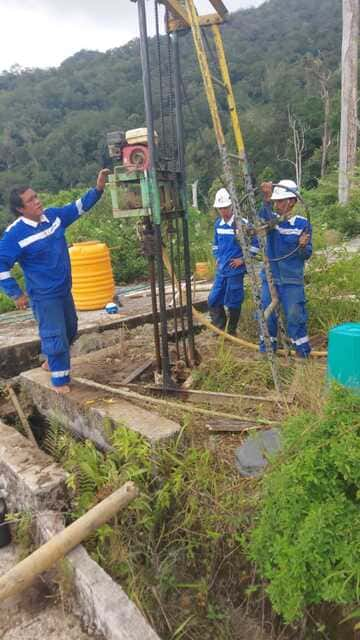
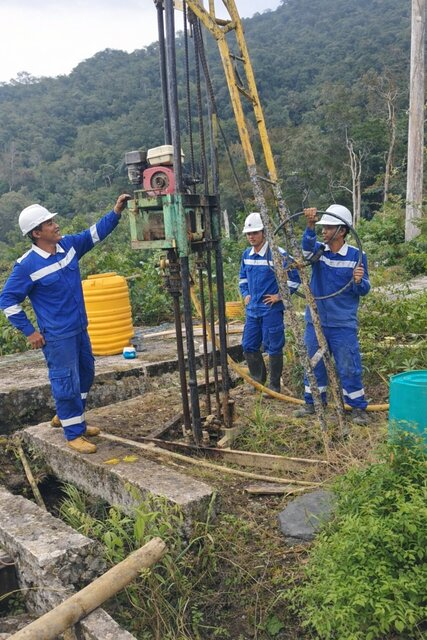
Update Specification page

diff --git a/src/components/information/Specification.jsx b/src/components/information/Specification.jsx
@@ -1,7 +1,243 @@
 
 export default function Specification() {
   return (
-    <>
-    </>
+    <div class="w-full flex flex-row flex-wrap">
+
+      <div class="w-full xs:px-1 py-1">
+        <div class="w-full max-w-[48rem] xs:rounded-sm border border-slate-200 dark:border-slate-700">
+          <div class="flex flex-row items-center bg-gray-100 dark:bg-gray-800">
+            <div class="mx-3 my-1.5 flex flex-row items-center font-semibold">
+              <span class="icon-list_square text-[1.5rem] align-middle"></span>
+              <span class="ml-1.5 align-middle">Sensor Inklinometer&nbsp;</span>
+            </div>
+          </div>
+          <div class="w-full xs:px-4 pt-2 pb-3 bg-white dark:bg-gray-900 text-sm">
+            <table class="w-full">
+              <thead class="text-xs sm:text-sm break-words">
+                <tr class="border-b border-gray-200 dark:border-gray-700">
+                  <th class="w-[34%] px-2 py-1.5 font-semibold">
+                    <div class="flex flex-row items-center justify-left">&nbsp;</div>
+                  </th>
+                  <th class="w-[66%] px-2 py-1.5 font-semibold">
+                    <div class="flex flex-row items-center justify-left">
+                      <span>Spesifikasi</span>
+                    </div>
+                  </th>
+                </tr>
+              </thead>
+              <tbody class="text-xs sm:text-sm">
+                <tr class="even:bg-gray-50 border-b border-gray-100 dark:border-gray-700 dark:even:bg-gray-800">
+                  <td class="flex items-center px-2 py-1 text-left">
+                    <div class="icon-list_circle mr-1 text-[0.75rem] align-middle h-full"></div>
+                    <div>Model</div>
+                  </td>
+                  <td class="px-2 py-1 text-left">Murata SCL3300-D01</td>
+                </tr>
+                <tr class="even:bg-gray-50 border-b border-gray-100 dark:border-gray-700 dark:even:bg-gray-800">
+                  <td class="flex items-center px-2 py-1 text-left">
+                    <div class="icon-list_circle mr-1 text-[0.75rem] align-middle h-full"></div>
+                    <div>Rentang ukur</div>
+                  </td>
+                  <td class="px-2 py-1 text-left">± 10° 3-axis</td>
+                </tr>
+                <tr class="even:bg-gray-50 border-b border-gray-100 dark:border-gray-700 dark:even:bg-gray-800">
+                  <td class="flex items-center px-2 py-1 text-left">
+                    <div class="icon-list_circle mr-1 text-[0.75rem] align-middle h-full"></div>
+                    <div>Resolusi</div>
+                  </td>
+                  <td class="px-2 py-1 text-left">0.0055°</td>
+                </tr>
+                <tr class="even:bg-gray-50 border-b border-gray-100 dark:border-gray-700 dark:even:bg-gray-800">
+                  <td class="flex items-center px-2 py-1 text-left">
+                    <div class="icon-list_circle mr-1 text-[0.75rem] align-middle h-full"></div>
+                    <div>Temperatur kerja</div>
+                  </td>
+                  <td class="px-2 py-1 text-left">-40 °C ‒ 125 °C</td>
+                </tr>
+                <tr class="even:bg-gray-50 border-b border-gray-100 dark:border-gray-700 dark:even:bg-gray-800">
+                  <td class="flex items-center px-2 py-1 text-left">
+                    <div class="icon-list_circle mr-1 text-[0.75rem] align-middle h-full"></div>
+                    <div><i>Offset lifetime drift</i></div>
+                  </td>
+                  <td class="px-2 py-1 text-left">-0.46° ‒ 0.46°</td>
+                </tr>
+                <tr class="even:bg-gray-50 border-b border-gray-100 dark:border-gray-700 dark:even:bg-gray-800">
+                  <td class="flex items-center px-2 py-1 text-left">
+                    <div class="icon-list_circle mr-1 text-[0.75rem] align-middle h-full"></div>
+                    <div>Sistem komunikasi</div >
+                  </td>
+                  <td class="px-2 py-1 text-left">RS-485</td>
+                </tr>
+              </tbody>
+            </table>
+          </div>
+        </div>
+      </div>
+
+      <div class="w-full xs:px-1 py-1">
+        <div class="w-full max-w-[48rem] xs:rounded-sm border border-slate-200 dark:border-slate-700">
+          <div class="flex flex-row items-center bg-gray-100 dark:bg-gray-800">
+            <div class="mx-3 my-1.5 flex flex-row items-center font-semibold">
+              <span class="icon-list_square text-[1.5rem] align-middle"></span>
+              <span class="ml-1.5 align-middle">Sensor Piezometer&nbsp;</span>
+            </div>
+          </div>
+          <div class="w-full xs:px-4 pt-2 pb-3 bg-white dark:bg-gray-900 text-sm">
+            <table class="w-full">
+              <thead class="text-xs sm:text-sm break-words">
+                <tr class="border-b border-gray-200 dark:border-gray-700">
+                  <th class="w-[34%] px-2 py-1.5 font-semibold">
+                    <div class="flex flex-row items-center justify-left">&nbsp;</div>
+                  </th>
+                  <th class="w-[66%] px-2 py-1.5 font-semibold">
+                    <div class="flex flex-row items-center justify-left">
+                      <span>Spesifikasi</span>
+                    </div>
+                  </th>
+                </tr>
+              </thead>
+              <tbody class="text-xs sm:text-sm">
+                <tr class="even:bg-gray-50 border-b border-gray-100 dark:border-gray-700 dark:even:bg-gray-800">
+                  <td class="flex items-center px-2 py-1 text-left">
+                    <div class="icon-list_circle mr-1 text-[0.75rem] align-middle h-full"></div>
+                    <div>Model</div>
+                  </td>
+                  <td class="px-2 py-1 text-left">Holykell HPT604</td>
+                </tr>
+                <tr class="even:bg-gray-50 border-b border-gray-100 dark:border-gray-700 dark:even:bg-gray-800">
+                  <td class="flex items-center px-2 py-1 text-left">
+                    <div class="icon-list_circle mr-1 text-[0.75rem] align-middle h-full"></div>
+                    <div>Rentang ukur</div>
+                  </td>
+                  <td class="px-2 py-1 text-left">0.1 ‒ 50 Bar</td>
+                </tr>
+                <tr class="even:bg-gray-50 border-b border-gray-100 dark:border-gray-700 dark:even:bg-gray-800">
+                  <td class="flex items-center px-2 py-1 text-left">
+                    <div class="icon-list_circle mr-1 text-[0.75rem] align-middle h-full"></div>
+                    <div>Akurasi</div>
+                  </td>
+                  <td class="px-2 py-1 text-left">≤± 0.5% F.S.</td>
+                </tr>
+                <tr class="even:bg-gray-50 border-b border-gray-100 dark:border-gray-700 dark:even:bg-gray-800">
+                  <td class="flex items-center px-2 py-1 text-left">
+                    <div class="icon-list_circle mr-1 text-[0.75rem] align-middle h-full"></div>
+                    <div>Temperatur kerja</div>
+                  </td>
+                  <td class="px-2 py-1 text-left">-30 °C ‒ 70 °C</td>
+                </tr>
+                <tr class="even:bg-gray-50 border-b border-gray-100 dark:border-gray-700 dark:even:bg-gray-800">
+                  <td class="flex items-center px-2 py-1 text-left">
+                    <div class="icon-list_circle mr-1 text-[0.75rem] align-middle h-full"></div>
+                    <div>Sistem komunikasi</div >
+                  </td>
+                  <td class="px-2 py-1 text-left">RS-485</td>
+                </tr>
+              </tbody>
+            </table>
+          </div>
+        </div>
+      </div>
+
+      <div class="w-full xs:px-1 py-1">
+        <div class="w-full max-w-[48rem] xs:rounded-sm border border-slate-200 dark:border-slate-700">
+          <div class="flex flex-row items-center bg-gray-100 dark:bg-gray-800">
+            <div class="mx-3 my-1.5 flex flex-row items-center font-semibold">
+              <span class="icon-list_square text-[1.5rem] align-middle"></span>
+              <span class="ml-1.5 align-middle">Sensor Curah Hujan&nbsp;</span>
+            </div>
+          </div>
+          <div class="w-full xs:px-4 pt-2 pb-3 bg-white dark:bg-gray-900 text-sm">
+            <table class="w-full">
+              <thead class="text-xs sm:text-sm break-words">
+                <tr class="border-b border-gray-200 dark:border-gray-700">
+                  <th class="w-[34%] px-2 py-1.5 font-semibold">
+                    <div class="flex flex-row items-center justify-left">&nbsp;</div>
+                  </th>
+                  <th class="w-[66%] px-2 py-1.5 font-semibold">
+                    <div class="flex flex-row items-center justify-left">
+                      <span>Spesifikasi</span>
+                    </div>
+                  </th>
+                </tr>
+              </thead>
+              <tbody class="text-xs sm:text-sm">
+                <tr class="even:bg-gray-50 border-b border-gray-100 dark:border-gray-700 dark:even:bg-gray-800">
+                  <td class="flex items-center px-2 py-1 text-left">
+                    <div class="icon-list_circle mr-1 text-[0.75rem] align-middle h-full"></div>
+                    <div>Model</div>
+                  </td>
+                  <td class="px-2 py-1 text-left">Hondetech 200 mm</td>
+                </tr>
+                <tr class="even:bg-gray-50 border-b border-gray-100 dark:border-gray-700 dark:even:bg-gray-800">
+                  <td class="flex items-center px-2 py-1 text-left">
+                    <div class="icon-list_circle mr-1 text-[0.75rem] align-middle h-full"></div>
+                    <div>Resolusi</div>
+                  </td>
+                  <td class="px-2 py-1 text-left">0.2 mm</td>
+                </tr>
+                <tr class="even:bg-gray-50 border-b border-gray-100 dark:border-gray-700 dark:even:bg-gray-800">
+                  <td class="flex items-center px-2 py-1 text-left">
+                    <div class="icon-list_circle mr-1 text-[0.75rem] align-middle h-full"></div>
+                    <div>Sistem komunikasi</div >
+                  </td>
+                  <td class="px-2 py-1 text-left">RS-485</td>
+                </tr>
+              </tbody>
+            </table>
+          </div>
+        </div>
+      </div>
+
+      <div class="w-full xs:px-1 py-1">
+        <div class="w-full max-w-[48rem] xs:rounded-sm border border-slate-200 dark:border-slate-700">
+          <div class="flex flex-row items-center bg-gray-100 dark:bg-gray-800">
+            <div class="mx-3 my-1.5 flex flex-row items-center font-semibold">
+              <span class="icon-list_square text-[1.5rem] align-middle"></span>
+              <span class="ml-1.5 align-middle">Sensor Temperatur dan Kelembaban Udara&nbsp;</span>
+            </div>
+          </div>
+          <div class="w-full xs:px-4 pt-2 pb-3 bg-white dark:bg-gray-900 text-sm">
+            <table class="w-full">
+              <thead class="text-xs sm:text-sm break-words">
+                <tr class="border-b border-gray-200 dark:border-gray-700">
+                  <th class="w-[34%] px-2 py-1.5 font-semibold">
+                    <div class="flex flex-row items-center justify-left">&nbsp;</div>
+                  </th>
+                  <th class="w-[66%] px-2 py-1.5 font-semibold">
+                    <div class="flex flex-row items-center justify-left">
+                      <span>Spesifikasi</span>
+                    </div>
+                  </th>
+                </tr>
+              </thead>
+              <tbody class="text-xs sm:text-sm">
+                <tr class="even:bg-gray-50 border-b border-gray-100 dark:border-gray-700 dark:even:bg-gray-800">
+                  <td class="flex items-center px-2 py-1 text-left">
+                    <div class="icon-list_circle mr-1 text-[0.75rem] align-middle h-full"></div>
+                    <div>Model</div>
+                  </td>
+                  <td class="px-2 py-1 text-left">Bosch BME280</td>
+                </tr>
+                <tr class="even:bg-gray-50 border-b border-gray-100 dark:border-gray-700 dark:even:bg-gray-800">
+                  <td class="flex items-center px-2 py-1 text-left">
+                    <div class="icon-list_circle mr-1 text-[0.75rem] align-middle h-full"></div>
+                    <div>Rentang Ukur</div >
+                  </td>
+                  <td class="px-2 py-1 text-left">-40‒85°C dan 1‒100%</td>
+                </tr>
+                <tr class="even:bg-gray-50 border-b border-gray-100 dark:border-gray-700 dark:even:bg-gray-800">
+                  <td class="flex items-center px-2 py-1 text-left">
+                    <div class="icon-list_circle mr-1 text-[0.75rem] align-middle h-full"></div>
+                    <div>Resolusi</div>
+                  </td>
+                  <td class="px-2 py-1 text-left">0.01°C dan 0.008%</td>
+                </tr>
+              </tbody>
+            </table>
+          </div>
+        </div>
+      </div>
+
+    </div>
   );
 }

diff --git a/src/components/information/Description.jsx b/src/components/information/Description.jsx
@@ -11,15 +11,15 @@ export default function Description() {
               </div>
             </div>
             <div class="flex flex-row justify-center py-3 px-6 bg-white dark:bg-gray-900">
-              <article class="prose text-gray-900 py-4 max-w-[80ch]">              
-                <h3>Objek Pemantauan</h3>
+              <article class="prose text-gray-900 py-4 max-w-[80ch] dark:text-gray-200">               
+                <h3 class="text-sky-900 dark:text-sky-200">Objek Pemantauan</h3>
                 <p class="text-base/6 my-2">
                   Sistem pemantauan longsor adalah sistem untuk memantau pergerakan tanah di suatu area dan memberi peringatan sebelum terjadinya longsor. Salah satu metode untuk mengukur pergerakan tanah adalah dengan mengukur kemiringan beberapa titik di bawah tanah. Data kemiringan lalu diolah menjadi pergerakan tanah. Kumpulan data pergerakan tanah ini dipantau secara berkala untuk dibandingkan dengan kriteria ambang batas longsor. Peringatan akan diberikan saat pergerakan tanah melebihi kriteria ambang batas longsor.
                 </p>
                 <p class="text-base/6 my-2">
                   Sumur uap panas bumi banyak terletak pada daerah rawan longsor. Salah satunya di sumur uap milik PT Pertamina Geothermal Energy (PGE) di Hululais, kabupaten Lebong, Bengkulu. Sistem pemantauan ditempat ini ditujukan sebagai bagian dari tindak pengamanan asset-aset di lokasi sekitar sumur uap dari resiko longsor.
                 </p>
-                <h3>Aplikasi</h3>
+                <h3 class="text-sky-900 dark:text-sky-200">Aplikasi</h3>
                 <p class="text-base/6 my-2">
                   Pemantauan longsor di sumur uap PGE Hululais dilakukan dengan cara mengebor tanah lalu memasang susunan sensor inklinometer digital. Sensor tersebut akan mengukur kemiringan secara terus menerus. Selain sensor inklinometer, dipasang juga sensor-sensor kondisi lingkungan antara lain sensor curah hujan, sensor piezometer untuk mengukur permukaan air tanah, serta sensor temperatur dan kelembaban udara.
                 </p>

diff --git a/src/components/overview/OverviewInclinometer.jsx b/src/components/overview/OverviewInclinometer.jsx
@@ -19,9 +19,9 @@ export default function OverviewInclinometer(props) {
   const initTimeMode = searchParams.time ? searchParams.time : config("time_mode") ? config("time_mode") : "live";
   const initFilterMode = searchParams.filter ? searchParams.filter : "all";
   const initDatasetMode = searchParams.dataset ? searchParams.dataset : "displacement_direction";
-  const initFrameMode = searchParams.frame ? searchParams.frame : "daily";
+  const initFrameMode = searchParams.frame ? searchParams.frame : "weekly";
   const initTimeLater = searchParams.later ? parseInt(searchParams.later) : config("live_range") ? parseInt(config("live_range")) : 300000;
-  const initTimeBegin = searchParams.begin && new Date(searchParams.begin) < new Date() ? new Date(searchParams.begin) : new Date(Date.now() - parseInt(initTimeLater));
+  const initTimeBegin = searchParams.begin && new Date(searchParams.begin) < new Date() ? new Date(searchParams.begin) : config("history_begin") ? new Date(config("history_begin")) : new Date();
   const initTimeEnd = searchParams.end && new Date(searchParams.end) < new Date() ? new Date(searchParams.end) : new Date();
   const initTimeSpecific = searchParams.specific && new Date(searchParams.specific) < new Date() ? new Date(searchParams.specific) : new Date();
 

diff --git a/src/components/dashboard/ItemList.jsx b/src/components/dashboard/ItemList.jsx
@@ -88,7 +88,7 @@ export default function ItemList(props) {
       <div class="w-full max-w-[48rem] xs:rounded-sm border border-slate-200 dark:border-slate-700">
         <div class="w-full flex flex-row items-center justify-between bg-gray-100 dark:bg-gray-800">
           <div class="mx-3 my-1.5 flex flex-row items-center font-semibold">
-          <span class={(props.config.icon ? props.config.icon : "icon-list_square") + " text-[1.5rem] align-middle"}></span>
+            <span class={(props.config.icon ? props.config.icon : "icon-list_square") + " text-[1.5rem] align-middle"}></span>
             <span class="ml-1.5 align-middle">{props.config.text}&nbsp;</span>
           </div>
           <div class="mx-3 my-auto flex flex-row text-sm">
